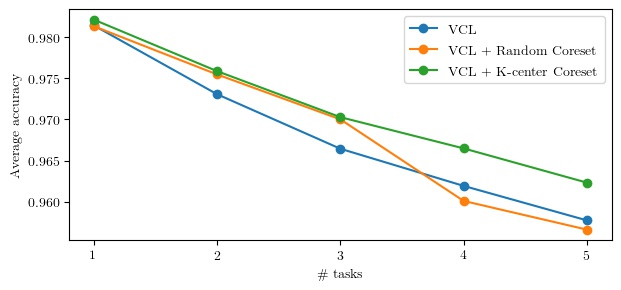
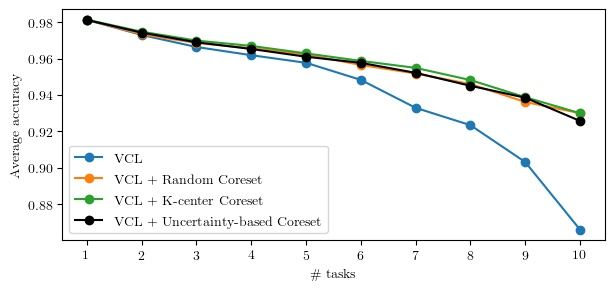
Uncertainty based coreset

diff --git a/ddm_py3/alg/coreset.py b/ddm_py3/alg/coreset.py
@@ -30,12 +30,65 @@ def k_center(x_coreset, y_coreset, x_train, y_train, coreset_size):
 
     return x_coreset, y_coreset, x_train, y_train
 
-""" Uncertainty-based coreset selection """
-def uncertainty_based(model, x_coreset, y_coreset, x_train, y_train, coreset_size):
-    raise NotImplementedError
-
 def update_distance(dists, x_train, current_id):
     for i in range(x_train.shape[0]):
         current_dist = np.linalg.norm(x_train[i,:]-x_train[current_id,:])
         dists[i] = np.minimum(current_dist, dists[i])
     return dists
+
+""" Uncertainty-based coreset selection """
+def uncertainty_based(model, task_id, x_coreset, y_coreset, x_train, y_train, coreset_size):
+    uncertainties = get_uncertainty_per_dataset(model, task_id, x_train)[0].sum(axis=-1)  # Epistemic
+    sorted_idx = uncertainties.argsort()[::-1]
+    idx = sorted_idx[:coreset_size]
+
+    x_coreset.append(x_train[idx,:])
+    y_coreset.append(y_train[idx,:])
+    x_train = np.delete(x_train, idx, axis=0)
+    y_train = np.delete(y_train, idx, axis=0)
+
+    return x_coreset, y_coreset, x_train, y_train
+
+def get_uncertainty_per_dataset(model, task_id, inputs):
+    T = model.no_pred_samples
+
+    temp_batch_size = 256
+    N = inputs.shape[0]
+    if temp_batch_size > N:
+        temp_batch_size = N
+    total_batch = int(np.ceil(N * 1.0 / temp_batch_size))
+    batch_predictions = []
+
+    # Loop over all batches
+    for i in range(total_batch):
+        start_ind = i*temp_batch_size
+        end_ind = np.min([(i+1)*temp_batch_size, N])
+        batch = inputs[start_ind:end_ind, :]
+        pred_i = model.prediction_prob(batch, task_id)
+        batch_predictions.append(pred_i)
+    
+    predictions = np.concatenate(batch_predictions, axis=1)
+
+    epistemics = []
+    aleatorics = []
+
+    # loop over each sample in the inputs
+    for sample in range(predictions.shape[1]):
+        p_hat = predictions[:, sample, :]
+        p_bar = np.mean(p_hat, axis=0)
+
+        temp = p_hat - np.expand_dims(p_bar, 0)
+        epistemic = np.dot(temp.T, temp) / T
+        epistemic = np.diag(epistemic)
+        epistemics.append(epistemic)
+
+        aleatoric = np.diag(p_bar) - (np.dot(p_hat.T, p_hat) / T)
+        aleatoric = np.diag(aleatoric)
+        aleatorics.append(aleatoric)
+
+    epistemic = np.vstack(epistemics)  # (batch_size, categories)
+    aleatoric = np.vstack(aleatorics)  # (batch_size, categories)
+
+    return epistemic, aleatoric
+        
+

diff --git a/ddm_py3/run_permuted.py b/ddm_py3/run_permuted.py
@@ -52,7 +52,7 @@ hidden_size = [100, 100]
 batch_size = 256
 no_epochs = 100
 single_head = True
-num_tasks = 5
+num_tasks = 10
 
 # Run vanilla VCL
 tf.set_random_seed(12)
@@ -85,8 +85,19 @@ kcen_vcl_result = vcl.run_vcl(hidden_size, no_epochs, data_gen,
     coreset.k_center, coreset_size, batch_size, single_head)
 print(kcen_vcl_result)
 
+# Run Uncertainty-based coreset VCL
+tf.reset_default_graph()
+tf.set_random_seed(12)
+np.random.seed(1)
+
+data_gen = PermutedMnistGenerator(num_tasks)
+uncertainty_vcl_result = vcl.run_vcl(hidden_size, no_epochs, data_gen, 
+    'uncertainty_based', coreset_size, batch_size, single_head)
+print(uncertainty_vcl_result)
+
 # Plot average accuracy
 vcl_avg = np.nanmean(vcl_result, 1)
 rand_vcl_avg = np.nanmean(rand_vcl_result, 1)
 kcen_vcl_avg = np.nanmean(kcen_vcl_result, 1)
-utils.plot('results/permuted.jpg', vcl_avg, rand_vcl_avg, kcen_vcl_avg)
+uncertainty_vcl_avg = np.nanmean(uncertainty_vcl_result, 1)
+utils.plot('results/permuted.jpg', vcl_avg, rand_vcl_avg, kcen_vcl_avg, uncertainty_vcl_avg)

diff --git a/ddm_py3/alg/vcl.py b/ddm_py3/alg/vcl.py
@@ -37,8 +37,9 @@ def run_vcl(hidden_size, no_epochs, data_gen, coreset_method, coreset_size=0, ba
         if coreset_size > 0:
             if type(coreset_method) is str and coreset_method == "uncertainty_based":
                 x_coresets, y_coresets, x_train, y_train = uncertainty_based(
-                    mf_model, x_coresets, y_coresets, x_train, y_train, coreset_size)
-            x_coresets, y_coresets, x_train, y_train = coreset_method(x_coresets, y_coresets, x_train, y_train, coreset_size)
+                    mf_model, task_id, x_coresets, y_coresets, x_train, y_train, coreset_size)
+            else:
+                x_coresets, y_coresets, x_train, y_train = coreset_method(x_coresets, y_coresets, x_train, y_train, coreset_size)
 
         # Incorporate coreset data and make prediction
         acc = utils.get_scores(mf_model, x_testsets, y_testsets, x_coresets, y_coresets, hidden_size, no_epochs, single_head, batch_size)

diff --git a/ddm_py3/alg/utils.py b/ddm_py3/alg/utils.py
@@ -71,7 +71,7 @@ def plot(filename, vcl, rand_vcl, kcen_vcl, uncertainty_vcl):
     plt.plot(np.arange(len(vcl))+1, vcl, label='VCL', marker='o')
     plt.plot(np.arange(len(rand_vcl))+1, rand_vcl, label='VCL + Random Coreset', marker='o')
     plt.plot(np.arange(len(kcen_vcl))+1, kcen_vcl, label='VCL + K-center Coreset', marker='o')
-    plt.plot(np.arange(len(uncertainty_vcl))+1, uncertainty_vcl, label='VCL + Uncertainty-based Coreset', marker='o')
+    plt.plot(np.arange(len(uncertainty_vcl))+1, uncertainty_vcl, label='VCL + Uncertainty-based Coreset', marker='o', color='black')
     ax.set_xticks(list(range(1, len(vcl)+1)))
     ax.set_ylabel('Average accuracy')
     ax.set_xlabel('\# tasks')

diff --git a/ddm_py3/run_split.py b/ddm_py3/run_split.py
@@ -73,7 +73,7 @@ tf.reset_default_graph()
 tf.set_random_seed(12)
 np.random.seed(1)
 
-coreset_size = 40
+coreset_size = 200
 data_gen = SplitMnistGenerator()
 rand_vcl_result = vcl.run_vcl(hidden_size, no_epochs, data_gen, 
     coreset.rand_from_batch, coreset_size, batch_size, single_head)
